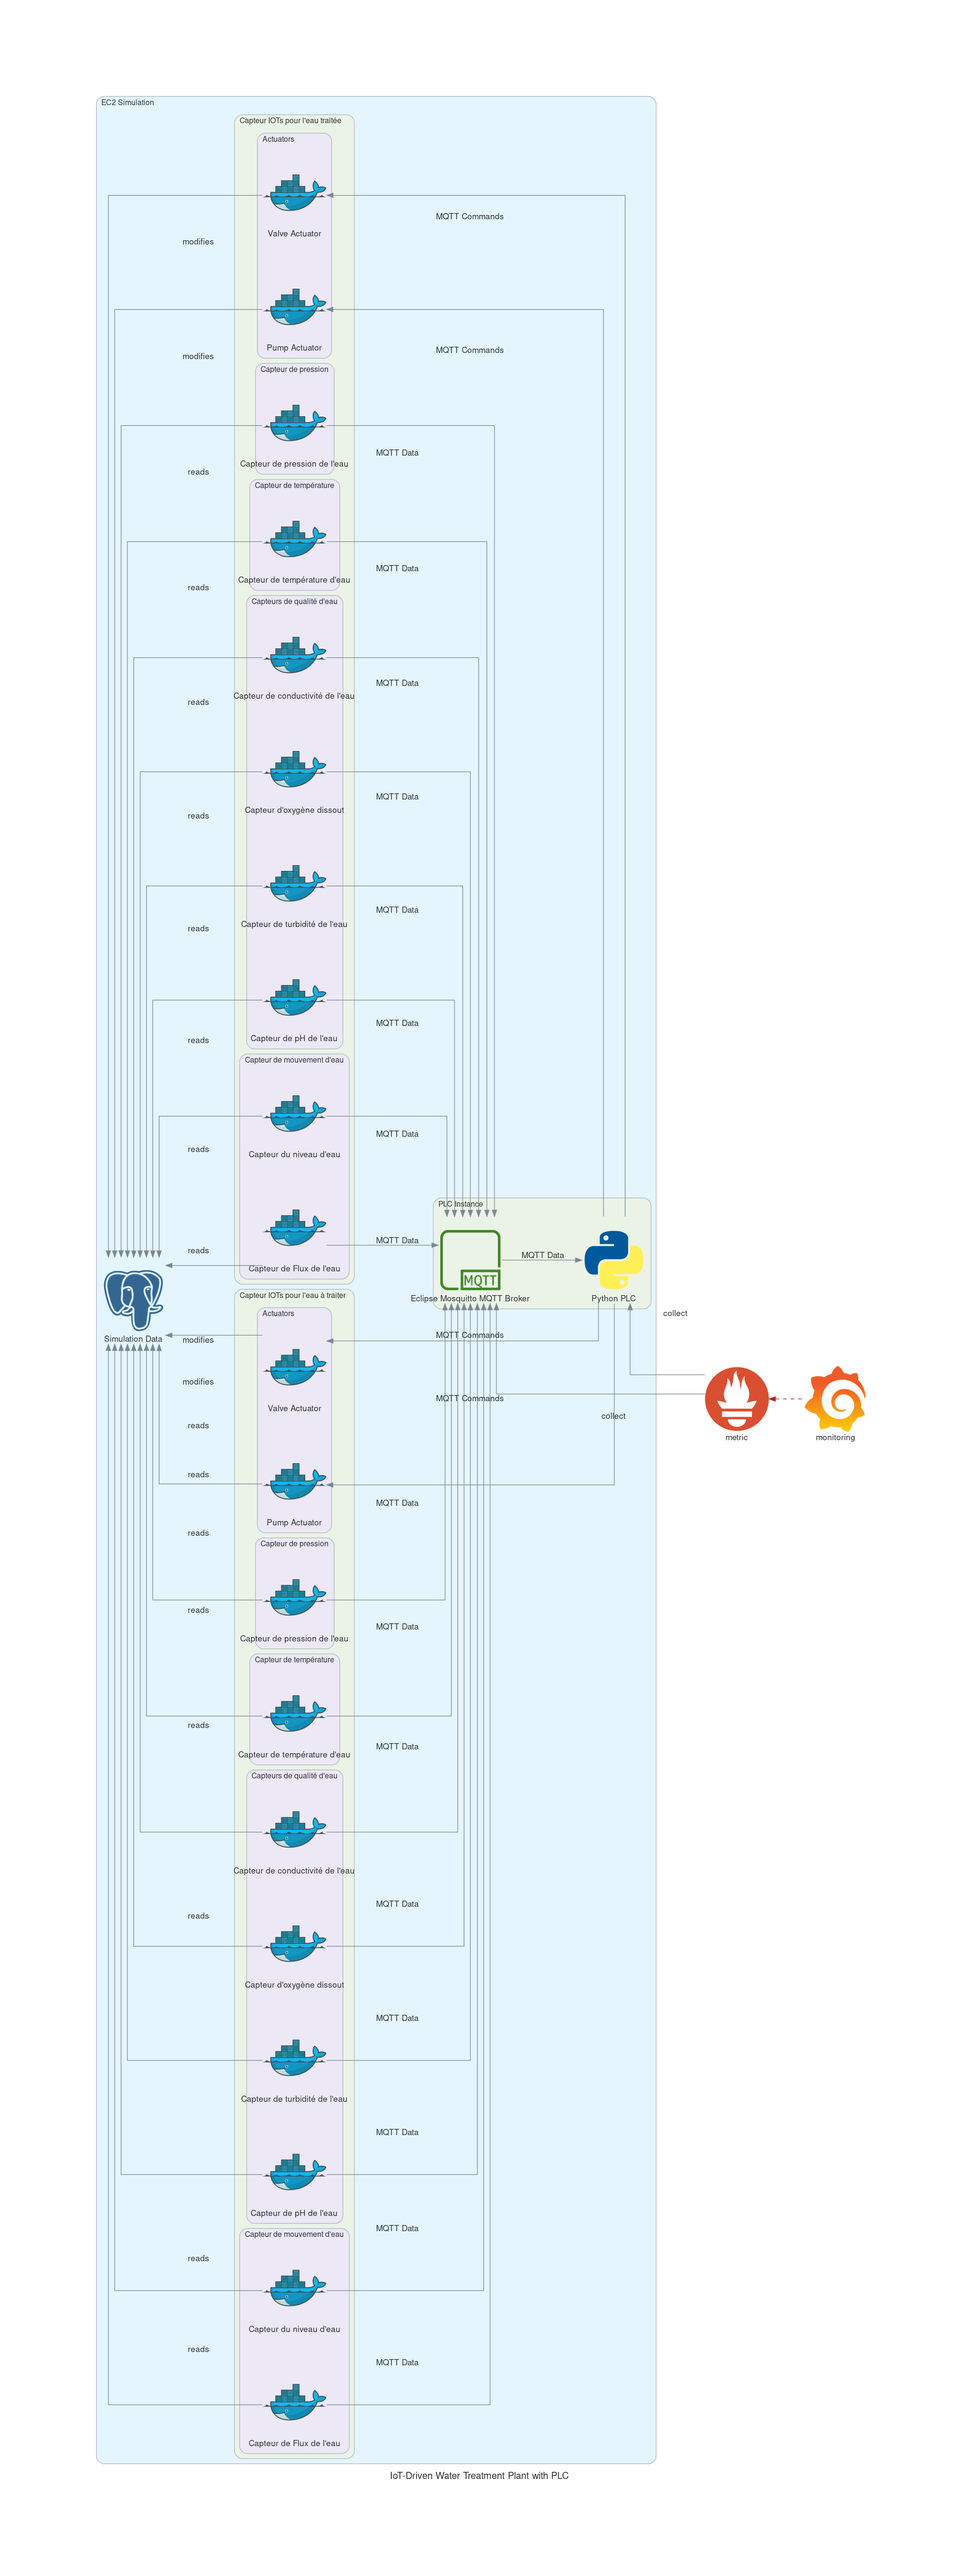
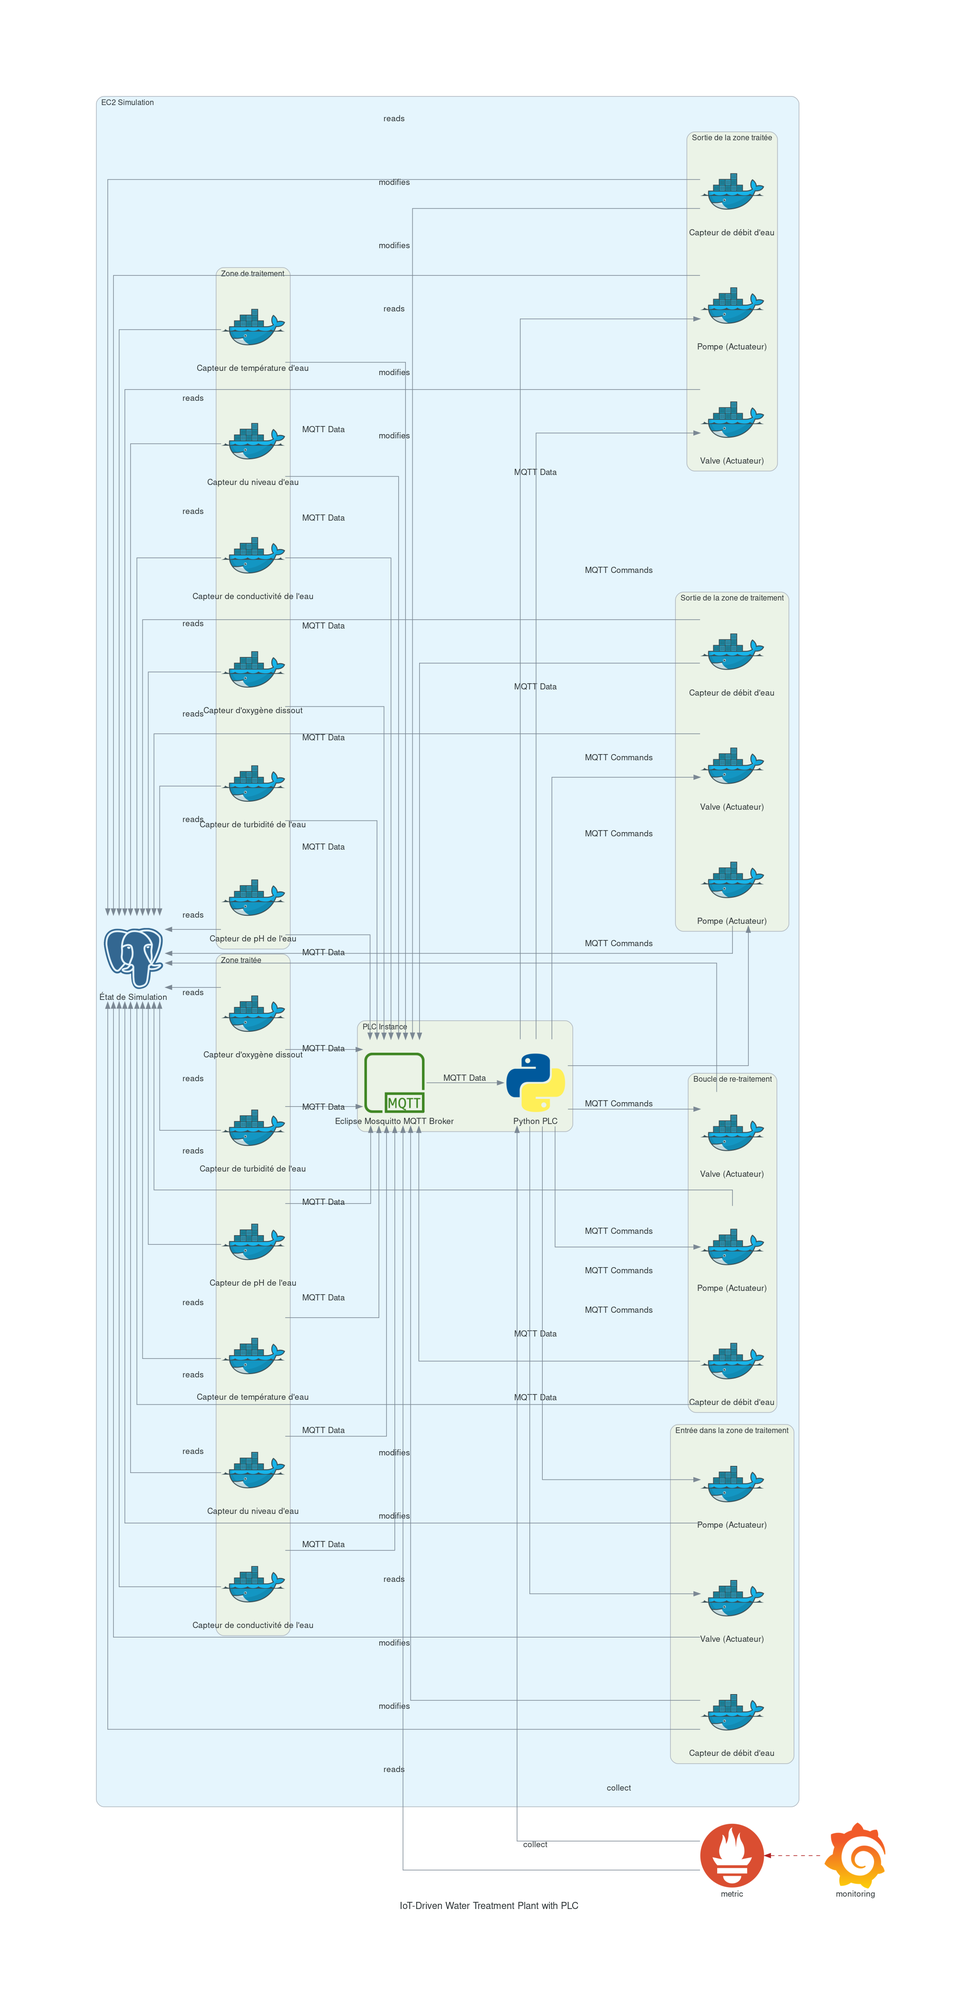
final final v3

diff --git a/diagrams/diagram.py b/diagrams/diagram.py
@@ -8,85 +8,88 @@ from diagrams.onprem.monitoring import Grafana, Prometheus
 from diagrams.onprem.database import Postgresql
 
 with Diagram("IoT-Driven Water Treatment Plant with PLC", show=False, direction="LR"):
-
     metrics = Prometheus("metric")
     metrics << Edge(color="firebrick", style="dashed") << Grafana("monitoring")
 
     with Cluster("EC2 Simulation"):
-        simulation_state_db = Postgresql("Simulation Data")
-        with Cluster("Capteur IOTs pour l'eau à traiter"):
-            # Sensor Dockers
-            with Cluster("Capteur de mouvement d'eau"):
-                flow_sensor_s = Docker("Capteur de Flux de l'eau") # (m^3/s)
-                level_sensor_s = Docker("Capteur du niveau d'eau") # (m)
+        simulation_state_db = Postgresql("État de Simulation")
 
-            with Cluster("Capteurs de qualité d'eau"):
-                ph_sensor_s = Docker("Capteur de pH de l'eau") # (pH)
-                turbidity_sensor_s = Docker("Capteur de turbidité de l'eau") # (nephelometric turbidity units (NTU))
-                dissolved_oxygen_sensor_s = Docker("Capteur d'oxygène dissout") # (mg/L)
-                conductivity_sensor_s = Docker("Capteur de conductivité de l'eau") # siemens per meter (S/m)
+        # Sensors and Actuators Untreated Water -> Treatment Tank
+        with Cluster("Entrée dans la zone de traitement"):
+            flow_sensor_1 = Docker("Capteur de débit d'eau")
+            pump_actuator_1 = Docker("Pompe (Actuateur)")
+            valve_actuator_1 = Docker("Valve (Actuateur)")
 
-            with Cluster("Capteur de température"):
-                temperature_sensor_s = Docker("Capteur de température d'eau") # (C)
+        # Sensors and Actuators Treated Tank -> Treatment Tank
+        with Cluster("Boucle de re-traitement"):
+            flow_sensor_2 = Docker("Capteur de débit d'eau")
+            pump_actuator_2 = Docker("Pompe (Actuateur)")
+            valve_actuator_2 = Docker("Valve (Actuateur)")
 
-            with Cluster("Capteur de pression"):
-                pressure_sensor_s = Docker("Capteur de pression de l'eau") # psi
+        # Sensors for Treatment Tank
+        with Cluster("Zone de traitement"):
+            ph_sensor_1 = Docker("Capteur de pH de l'eau") # (pH)
+            turbidity_sensor_1 = Docker("Capteur de turbidité de l'eau") # (nephelometric turbidity units (NTU))
+            dissolved_oxygen_sensor_1 = Docker("Capteur d'oxygène dissout") # (mg/L)
+            conductivity_sensor_1 = Docker("Capteur de conductivité de l'eau") # siemens per meter (S/m)
+            level_sensor_1 = Docker("Capteur du niveau d'eau") # (m)
+            temperature_sensor_1 = Docker("Capteur de température d'eau") # (C)
 
-            # Actuator Dockers
-            with Cluster("Actuators"):
-                pump_actuator_s = Docker("Pump Actuator")
-                valve_actuator_s = Docker("Valve Actuator")
+        # Sensors for Treatment Tank -> Treated Tank
+        with Cluster("Sortie de la zone de traitement"):
+            flow_sensor_3 = Docker("Capteur de débit d'eau")
+            pump_actuator_3 = Docker("Pompe (Actuateur)")
+            valve_actuator_3 = Docker("Valve (Actuateur)")
 
-        with Cluster("Capteur IOTs pour l'eau traitée"):
-            # Sensor Dockers
-            with Cluster("Capteur de mouvement d'eau"):
-                flow_sensor_f = Docker("Capteur de Flux de l'eau") # (m^3/s)
-                level_sensor_f = Docker("Capteur du niveau d'eau") # (m)
+        # Sensors for Treated Tank
+        with Cluster("Zone traitée"):
+            ph_sensor_2 = Docker("Capteur de pH de l'eau") # (pH)
+            turbidity_sensor_2 = Docker("Capteur de turbidité de l'eau") # (nephelometric turbidity units (NTU))
+            dissolved_oxygen_sensor_2 = Docker("Capteur d'oxygène dissout") # (mg/L)
+            conductivity_sensor_2 = Docker("Capteur de conductivité de l'eau") # siemens per meter (S/m)
+            level_sensor_2 = Docker("Capteur du niveau d'eau") # (m)
+            temperature_sensor_2 = Docker("Capteur de température d'eau") # (C)
 
-            with Cluster("Capteurs de qualité d'eau"):
-                ph_sensor_f = Docker("Capteur de pH de l'eau") # (pH)
-                turbidity_sensor_f = Docker("Capteur de turbidité de l'eau") # (nephelometric turbidity units (NTU))
-                dissolved_oxygen_sensor_f = Docker("Capteur d'oxygène dissout") # (mg/L)
-                conductivity_sensor_f = Docker("Capteur de conductivité de l'eau") # siemens per meter (S/m)
-
-            with Cluster("Capteur de température"):
-                temperature_sensor_f = Docker("Capteur de température d'eau") # (C)
-
-            with Cluster("Capteur de pression"):
-                pressure_sensor_f = Docker("Capteur de pression de l'eau") # psi
-
-            # Actuator Dockers
-            with Cluster("Actuators"):
-                pump_actuator_f = Docker("Pump Actuator")
-                valve_actuator_f = Docker("Valve Actuator")
+        # Sensors for Leaving Treated Tank
+        with Cluster("Sortie de la zone traitée"):
+            flow_sensor_4 = Docker("Capteur de débit d'eau")
+            pump_actuator_4 = Docker("Pompe (Actuateur)")
+            valve_actuator_4 = Docker("Valve (Actuateur)")
 
         # PLC EC2 instance with MQTT broker
         with Cluster("PLC Instance"):
             mqtt_broker = IotMqtt("Eclipse Mosquitto MQTT Broker")
             python_app = Python("Python PLC")
 
-    # Connections
     sensors = [
-        # Sensors for water to be treated
-        flow_sensor_s, 
-        level_sensor_s, 
-        ph_sensor_s, 
-        turbidity_sensor_s, 
-        dissolved_oxygen_sensor_s, 
-        conductivity_sensor_s, 
-        pressure_sensor_s, 
-        temperature_sensor_s,
-        # Sensors for water after treatment
-        flow_sensor_f,
-        level_sensor_f,
-        ph_sensor_f,
-        turbidity_sensor_f,
-        dissolved_oxygen_sensor_f,
-        conductivity_sensor_f,
-        temperature_sensor_f,
-        pressure_sensor_f
+        flow_sensor_1,
+        flow_sensor_2,
+        ph_sensor_1,
+        turbidity_sensor_1,
+        dissolved_oxygen_sensor_1,
+        conductivity_sensor_1,
+        level_sensor_1,
+        temperature_sensor_1,
+        flow_sensor_3,
+        ph_sensor_2,
+        turbidity_sensor_2,
+        dissolved_oxygen_sensor_2,
+        conductivity_sensor_2,
+        level_sensor_2,
+        temperature_sensor_2,
+        flow_sensor_4
     ]
-    actuators = [pump_actuator_s, valve_actuator_s, pump_actuator_f, valve_actuator_f]
+
+    actuators = [
+        pump_actuator_1,
+        valve_actuator_1,
+        pump_actuator_2,
+        valve_actuator_2,
+        pump_actuator_3,
+        valve_actuator_3,
+        pump_actuator_4,
+        valve_actuator_4
+    ]
 
     # Sensor to MQTT Broker (EC2)
     for sensor in sensors:
